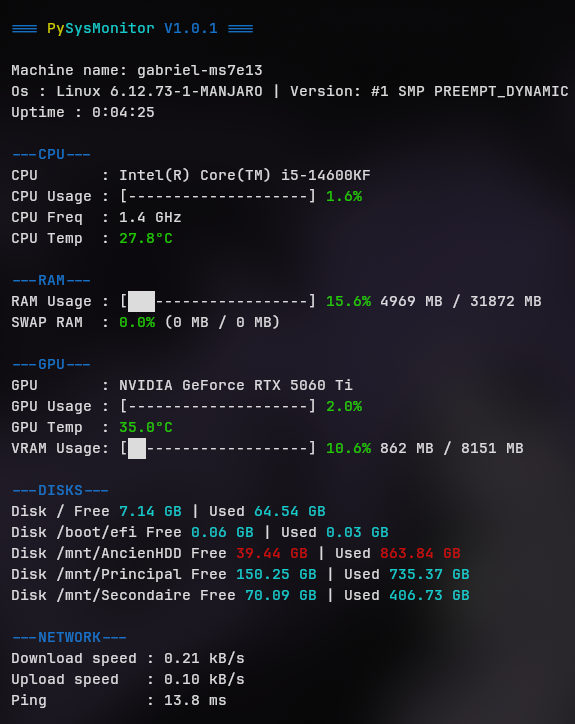
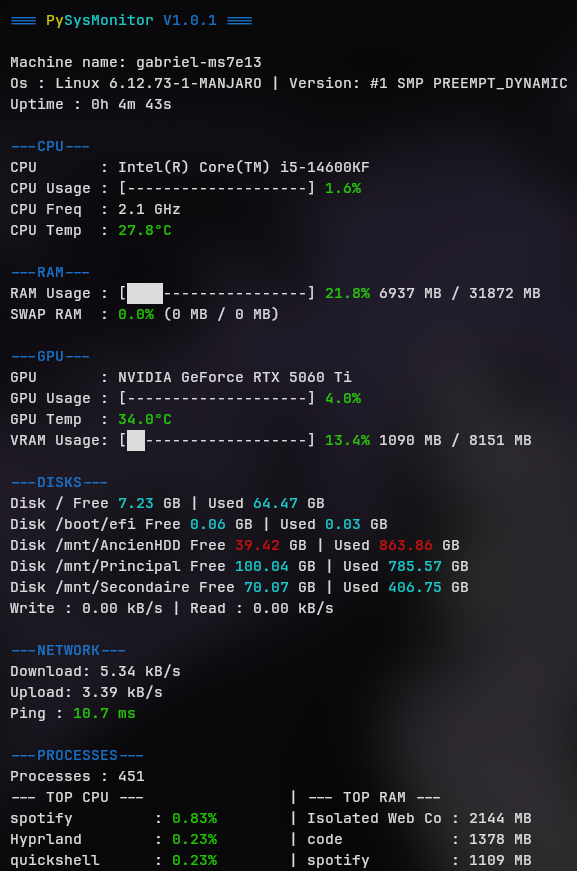
feat: add write/read disks speed (check v1.1.0)

diff --git a/gui.py b/gui.py
@@ -2,7 +2,7 @@ import customtkinter as ctk
 from core.cpu import get_cpu_usage, get_cpu_freq, get_cpu_temp, get_os
 from core.ram import get_ram, get_swap
 from core.gpu import get_gpus
-from core.disks import get_disks
+from core.disks import get_disks, disk_speeds
 from core.network import get_network_speed, get_ping
 from core.processes import get_top_proc
 
@@ -71,29 +71,29 @@ ctk.CTkLabel(ram_frame, text="--- RAM ---", text_color="#4DA6FF", font=FONT_TITL
 ctk.CTkLabel(gpu_frame, text="--- GPU ---", text_color="#4DA6FF", font=FONT_TITLE).grid(row=0, column=0, pady=5)
 
 # CPU
-cpu_usage_lab = ctk.CTkLabel(cpu_frame, text="Usage : 45%", anchor="center", font=FONT)
+cpu_usage_lab = ctk.CTkLabel(cpu_frame, text="Usage : ...%", anchor="center", font=FONT)
 cpu_usage_lab.grid(row=1, column=0, pady=2, padx=20, sticky="ew")
-cpu_freq_lab = ctk.CTkLabel(cpu_frame, text="Freq : 3.2 GHz", anchor="center", font=FONT)
+cpu_freq_lab = ctk.CTkLabel(cpu_frame, text="Freq : ... GHz", anchor="center", font=FONT)
 cpu_freq_lab.grid(row=3, column=0, pady=10, padx=20, sticky="ew")
-cpu_temp_lab = ctk.CTkLabel(cpu_frame, text="Temp : 65°C", anchor="center", font=FONT)
+cpu_temp_lab = ctk.CTkLabel(cpu_frame, text="Temp : ...°C", anchor="center", font=FONT)
 cpu_temp_lab.grid(row=4, column=0, pady=2, padx=20, sticky="ew")
 
 # RAM
-ram_usage_lab =ctk.CTkLabel(ram_frame, text="Usage : 60%", anchor="center", font=FONT)
+ram_usage_lab =ctk.CTkLabel(ram_frame, text="Usage : ...%", anchor="center", font=FONT)
 ram_usage_lab.grid(row=1, column=0, pady=2, padx=20, sticky="ew")
-ram_total_lab =ctk.CTkLabel(ram_frame, text="21354 MB / 32549 MB", anchor="center", font=FONT)
+ram_total_lab =ctk.CTkLabel(ram_frame, text="... MB / ... MB", anchor="center", font=FONT)
 ram_total_lab.grid(row=2, column=0, pady=0, padx=20, sticky="ew")
-swap_usage_lab = ctk.CTkLabel(ram_frame, text="SWAP : 10%", anchor="center", font=FONT)
+swap_usage_lab = ctk.CTkLabel(ram_frame, text="SWAP : ...%", anchor="center", font=FONT)
 swap_usage_lab.grid(row=4, column=0, pady=5, padx=20, sticky="ew")
-swap_total_lab = ctk.CTkLabel(ram_frame, text="984 MB / 8192 MB", anchor="center", font=FONT)
+swap_total_lab = ctk.CTkLabel(ram_frame, text="... MB / ... MB", anchor="center", font=FONT)
 swap_total_lab.grid(row=5, column=0, pady=0, padx=20, sticky="ew")
 
 # GPU
-gpu_usage_lab = ctk.CTkLabel(gpu_frame, text="Usage : 80%", anchor="center", font=FONT)
+gpu_usage_lab = ctk.CTkLabel(gpu_frame, text="Usage : ...%", anchor="center", font=FONT)
 gpu_usage_lab.grid(row=1, column=0, pady=2, padx=20, sticky="ew")
-gpu_temp_lab = ctk.CTkLabel(gpu_frame, text="Temp : 70°C", anchor="center", font=FONT)
+gpu_temp_lab = ctk.CTkLabel(gpu_frame, text="Temp : ...°C", anchor="center", font=FONT)
 gpu_temp_lab.grid(row=3, column=0, pady=10, padx=20, sticky="ew")
-vram_lab = ctk.CTkLabel(gpu_frame, text="VRAM : 50% | 4096 MB / 8192 MB", anchor="center", font=FONT)
+vram_lab = ctk.CTkLabel(gpu_frame, text="VRAM : ...% | ... MB / ... MB", anchor="center", font=FONT)
 vram_lab.grid(row=4, column=0, pady=2, padx=20, sticky="ew")
 
 # Frames ROW 2
@@ -112,13 +112,15 @@ ctk.CTkLabel(net_frame, text="--- Network ---", text_color="#4DA6FF", font=FONT_
 
 # Disk
 disk_labs = []
+disk_spds_lab = ctk.CTkLabel(disk_frame, text="Write : ... kB/s | Read : ... kB/s", anchor="center", font=FONT)
+disk_spds_lab.grid(row=5, column=0, pady=2, padx=20, sticky="ew")
 
 # Network
-net_download_lab = ctk.CTkLabel(net_frame, text="Download : 150.00 kB/s", anchor="center", font=FONT)
+net_download_lab = ctk.CTkLabel(net_frame, text="Download : ... kB/s", anchor="center", font=FONT)
 net_download_lab.grid(row=1, column=0, pady=2, padx=20, sticky="ew")
-net_upload_lab = ctk.CTkLabel(net_frame, text="Upload : 20.00 kB/s", anchor="center", font=FONT)
+net_upload_lab = ctk.CTkLabel(net_frame, text="Upload : ... kB/s", anchor="center", font=FONT)
 net_upload_lab.grid(row=2, column=0, pady=2, padx=20, sticky="ew")
-net_ping_lab = ctk.CTkLabel(net_frame, text="Ping : 12 ms", anchor="center", font=FONT)
+net_ping_lab = ctk.CTkLabel(net_frame, text="Ping : ... ms", anchor="center", font=FONT)
 net_ping_lab.grid(row=3, column=0, pady=2, padx=20, sticky="ew")
 
 # Frames ROW 3
@@ -192,6 +194,9 @@ def update():
         lab = ctk.CTkLabel(disk_frame, text=f"{disk['mountpoint']} — Free: {disk['free']} GB | Used: {disk['used']} GB", anchor="center", font=FONT)
         lab.grid(row=i+1, column=0, pady=2, padx=20, sticky="ew")
         disk_labs.append(lab)
+        
+    spd_read, spd_write = disk_speeds()
+    disk_spds_lab.configure(text=f"Write : {spd_write} kB/s | Read : {spd_read} kB/s")
 
     # Network
     net_speed = get_network_speed()

diff --git a/main.py b/main.py
@@ -77,7 +77,7 @@ def status():
     global last_recv, last_sent
     os.system('cls' if os.name == 'nt' else 'clear')
 
-    print(f"{Fore.BLUE}==={Fore.RESET}{Fore.YELLOW } Py{Fore.RESET}{Fore.CYAN}SysMonitor{Fore.RESET} {Fore.BLUE}V1.0.1 ==={Fore.RESET}")
+    print(f"{Fore.BLUE}==={Fore.RESET}{Fore.YELLOW } Py{Fore.RESET}{Fore.CYAN}SysMonitor{Fore.RESET} {Fore.BLUE}==={Fore.RESET}")
     print('')
 
     print(f"Machine name: {platform.node()}")
@@ -147,7 +147,7 @@ def status():
         print(f"Disk {disks['mountpoint']} Free {colored_free} GB | Used {colored_used} GB")
     
     spd_read, spd_write = disk_speeds()
-    print(f"Write : {spd_write / 1024:.2f} kB/s | Read : {spd_read / 1024:.2f} kB/s")
+    print(f"Write : {spd_write} kB/s | Read : {spd_read} kB/s")
 
 
     print('')

diff --git a/core/cpu.py b/core/cpu.py
@@ -15,7 +15,7 @@ def get_cpu_temp():
         if not data:
             return None
         measures = next(iter(data.values()))
-        return measures[0].current
+        return round(measures[0].current, 1)
     else:
         return "N/A"
     
@@ -23,4 +23,4 @@ def get_cpu_usage():
     return psutil.cpu_percent()
 
 def get_cpu_freq():
-    return psutil.cpu_freq().current / 1000
+    return round(psutil.cpu_freq().current / 1000, 2)

diff --git a/core/disks.py b/core/disks.py
@@ -37,4 +37,4 @@ def disk_speeds():
     spd_write = dskspd.write_bytes - last_write
     last_read = dskspd.read_bytes
     last_write = dskspd.write_bytes
-    return spd_read, spd_write
+    return round(spd_read / 1024, 2), round(spd_write / 1024, 2)
